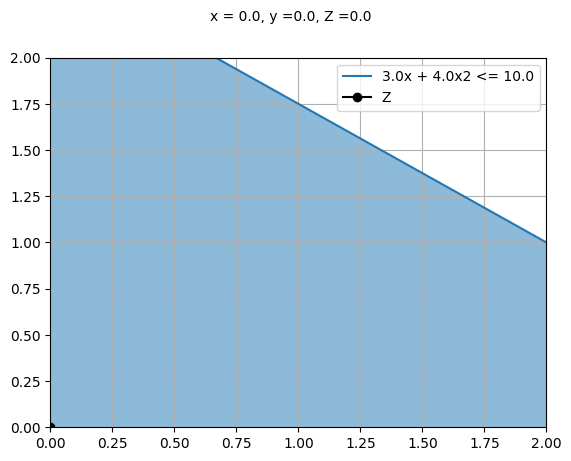
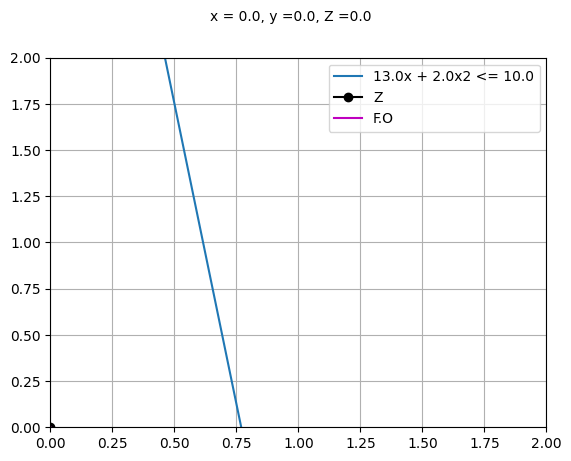
Back Terminado

diff --git a/src/Components/Graph.js b/src/Components/Graph.js
@@ -1,7 +1,6 @@
 import React,{useState} from 'react';
 import { Layout, Row, Col, Form , Radio,Button, Input, Space,Select, Image} from "antd";
 import { PlusCircleOutlined } from "@ant-design/icons";
-import axios from 'axios'
 import 'antd/dist/antd.css'
 import './Graph.css'
 
@@ -14,17 +13,14 @@ function Graph() {
   const [data, setData] = useState(null)
 
   const handleSubmit = async (data) =>{
-
-    // console.log(data)
-
-    try {
+        try {
       
       const response = await fetch('/api/data', {
         method: 'POST',
         headers: {
           'Content-Type': 'application/json'
         },
-        body: JSON.stringify(data)
+        body: JSON.stringify({data})
       })
   
       if (response.ok) {
@@ -38,9 +34,7 @@ function Graph() {
     } catch (error) {
       console.log(error)
     }
-
-    
-  }
+}
 
   return (
     <Layout className="fondo">

diff --git a/api/index.py b/api/index.py
@@ -1,8 +1,7 @@
-from flask import Flask,jsonify,request,json,url_for,send_file
+from flask import Flask,request,json,send_file
 import pulp 
 import numpy as np
 import matplotlib.pyplot as plt
-from io import BytesIO
 
 dir(pulp)
 
@@ -17,127 +16,140 @@ def index():
 
 @app.route('/api/data',methods=['POST'])
 def create():
-    # request_data = json.loads(request.data)
-    # print(request_data)
-    # maxmin = request_data['data']['maxmin']
-    # xObj = request_data['data']['xObj']
-    # yObj = request_data['data']['yObj']
-    # todas = request_data['data']['names']
+    request_data = json.loads(request.data)
+    print(request_data)
+    maxmin = request_data['data']['maxmin']
+    xObj = request_data['data']['xObj']
+    yObj = request_data['data']['yObj']
+    todas = request_data['data']['names']
 
-    # x = pulp.LpVariable('x', lowBound = 0)
-    # y = pulp.LpVariable('y', lowBound = 0)
+    x = pulp.LpVariable('x', lowBound = 0)
+    y = pulp.LpVariable('y', lowBound = 0)
 
-    # max_z = pulp.LpProblem("Maximaze_Z", pulp.LpMaximize)
-    # min_z = pulp.LpProblem("Minimize_Z", pulp.LpMinimize)
+    max_z = pulp.LpProblem("Maximaze_Z", pulp.LpMaximize)
+    min_z = pulp.LpProblem("Minimize_Z", pulp.LpMinimize)
 
-    # xmax = 0
-    # ymax = 0
+    xmax = 0
+    ymax = 0
 
-    # for j in range(len(todas)):
-    #     print(todas[j]['valorX'], todas[j]['valorY'],todas[j]['igualador'],todas[j]['resultado'])
+    for j in range(len(todas)):
+        print(todas[j]['valorX'], todas[j]['valorY'],todas[j]['igualador'],todas[j]['resultado'])
     
 
-    # if maxmin == "maximizar":
-    #     max_z += float(xObj)*x + float(yObj)*y
-    #     for t in range(len(todas)):
-    #         if todas[t]['igualador'] == ">=":
-    #             max_z += float(todas[t]['valorX'])*x + float(todas[t]['valorY'])*y >= float(todas[t]['resultado'])
-    #         else:
-    #             max_z += float(todas[t]['valorX'])*x + float(todas[t]['valorY'])*y <= float(todas[t]['resultado'])
-    #         # if xmax < float(todas[t]['valorX']):
-    #         #     xmax = float(todas[t]['valorX'])
-    #         # elif ymax < float(todas[t]['valorY']):
-    #         #     ymax = float(todas[t]['valor'])
-    #     # print(max_z)
-    #     max_z.solve()
-    #     print('El valor de x' + str(x.varValue))
-    #     print('El valor de y' + str(y.varValue))
+    if maxmin == "maximizar":
+        max_z += float(xObj)*x + float(yObj)*y
+        for t in range(len(todas)):
+            if todas[t]['igualador'] == ">=":
+                max_z += float(todas[t]['valorX'])*x + float(todas[t]['valorY'])*y >= float(todas[t]['resultado'])
+            else:
+                max_z += float(todas[t]['valorX'])*x + float(todas[t]['valorY'])*y <= float(todas[t]['resultado'])
+            # if xmax < float(todas[t]['valorX']):
+            #     xmax = float(todas[t]['valorX'])
+            # elif ymax < float(todas[t]['valorY']):
+            #     ymax = float(todas[t]['valor'])
+        # print(max_z)
+        max_z.solve()
+        print('El valor de x' + str(x.varValue))
+        print('El valor de y' + str(y.varValue))
         
-    # else:
-    #     min_z += float(xObj)*x + float(yObj)*y
-    #     for t in range(len(todas)):
-    #         if todas[t]['igualador'] == ">=":
-    #             min_z += float(todas[t]['valorX'])*x + float(todas[t]['valorY'])*y >= float(todas[t]['resultado'])
-    #         else:
-    #             min_z += float(todas[t]['valorX'])*x + float(todas[t]['valorY'])*y <= float(todas[t]['resultado'])
-    #         # if xmax < float(todas[t]['valorX']):
-    #         #     xmax = float(todas[t]['valorX'])
-    #         # elif ymax < float(todas[t]['valorY']):
-    #         #     ymax = float(todas[t]['valorY'])
-    #     # print(min_z)
-    #     print(min_z.solve())
-    #     print('El valor de x' + str(x.varValue))
-    #     print('El valor de y' + str(y.varValue))
+    else:
+        min_z += float(xObj)*x + float(yObj)*y
+        for t in range(len(todas)):
+            if todas[t]['igualador'] == ">=":
+                min_z += float(todas[t]['valorX'])*x + float(todas[t]['valorY'])*y >= float(todas[t]['resultado'])
+            else:
+                min_z += float(todas[t]['valorX'])*x + float(todas[t]['valorY'])*y <= float(todas[t]['resultado'])
+            # if xmax < float(todas[t]['valorX']):
+            #     xmax = float(todas[t]['valorX'])
+            # elif ymax < float(todas[t]['valorY']):
+            #     ymax = float(todas[t]['valorY'])
+        # print(min_z)
+        print(min_z.solve())
+        print('El valor de x' + str(x.varValue))
+        print('El valor de y' + str(y.varValue))
 
+    xmax = 2
+    ymax = 2
+    for t in range(len(todas)):
+        xactual = float(todas[t]['valorX'])
+        yactual = float(todas[t]['valorY'])
+        resul = float(todas[t]['resultado'])
+        if yactual != 0.0:
+            maxEnY = (resul / yactual) + ((xactual/yactual)*-1)
+            if maxEnY > ymax:
+                ymax = int(maxEnY) + 10
+        if xactual != 0.0:
+            maxEnX = (resul / xactual) + ((yactual/xactual)*-1)
+            if maxEnX > xmax:
+                xmax = int(maxEnX) + 10
 
-    # xmax = 2
-    # ymax = 2
-    # for t in range(len(todas)):
-    #     xactual = float(todas[t]['valorX'])
-    #     yactual = float(todas[t]['valorY'])
-    #     resul = float(todas[t]['resultado'])
-    #     if yactual != 0.0:
-    #         maxEnY = (resul / yactual) + ((xactual/yactual)*-1)
-    #         if maxEnY > ymax:
-    #             ymax = int(maxEnY) + 10
-    #     if xactual != 0.0:
-    #         maxEnX = (resul / xactual) + ((yactual/xactual)*-1)
-    #         if maxEnX > xmax:
-    #             xmax = int(maxEnX) + 10
-
-    # xfun = np.linspace(0,xmax + 10, 2000)
-    # yval = []
-    # pos = 0
-    # for t in range(len(todas)):
-    #     x1 = float(todas[t]['valorX']) * -1
-    #     x2 = float(todas[t]['valorY'])
-    #     resul = float(todas[t]['resultado'])
-    #     if x2 != 0:
-    #         resultado = (resul / x2) + ((x1 / x2)*xfun)
+    xfun = np.linspace(0,xmax + 10, 2000)
+    yval = []
+    pos = 0
+    for t in range(len(todas)):
+        x1 = float(todas[t]['valorX']) * -1
+        x2 = float(todas[t]['valorY'])
+        resul = float(todas[t]['resultado'])
+        if x2 != 0:
+            resultado = (resul / x2) + ((x1 / x2)*xfun)
         
-    #         yval.append(resultado)
-    #         plt.plot(xfun, resultado, label = f"{str(x1 * -1)}x + {str(x2)}x2 {todas[t]['igualador']} {str(resul)}")
-    #         if todas[t]['igualador'] == "<=":
-    #             plt.fill_between(xfun, resultado, where = resultado <= resultado, alpha=0.5)
-    #         elif todas[t]['igualador'] == ">=":
-    #             plt.fill_between(xfun, resultado, where = resultado >= resultado, alpha=0.5)
-    #     else:
-    #         pos = 0 
-    #         op = np.arange(2000) * 0
-    #         resultado = resul / (x1 * -1)
-    #         for b in range(len(xfun)):
-    #             if resultado == xfun[b]:
-    #                 op[b] = ymax + 10
-    #                 pos = b
-    #                 break
-    #             if xfun[b] > resultado and b != 0:
-    #                 op[b-1] = ymax + 10
-    #                 pos = b - 1
-    #                 break
+            yval.append(resultado)
+            plt.plot(xfun, resultado, label = f"{str(x1 * -1)}x + {str(x2)}x2 {todas[t]['igualador']} {str(resul)}")
+            if todas[t]['igualador'] == "<=":
+                #plt.fill_between(xfun, resultado, where = resultado <= resultado, alpha=0.5)
+                print('Uno')
+            elif todas[t]['igualador'] == ">=":
+                #plt.fill_between(xfun, resultado, where = resultado >= resultado, alpha=0.5)
+                print('Dos')
+        else:
+            pos = 0 
+            op = np.arange(2000) * 0
+            resultado = resul / (x1 * -1)
+            for b in range(len(xfun)):
+                if resultado == xfun[b]:
+                    op[b] = ymax + 10
+                    pos = b
+                    break
+                if xfun[b] > resultado and b != 0:
+                    op[b-1] = ymax + 10
+                    pos = b - 1
+                    break
 
-    #         for c in range(len(op)):
-    #             if todas[t]['igualador'] == "<=":
-    #                 if c >= pos:
-    #                     op[c] = ymax + 10
-    #                 elif todas[t]['igualador'] == ">=":
-    #                     if c <= pos:
-    #                         op[c] = xmax + 10
+            for c in range(len(op)):
+                if todas[t]['igualador'] == "<=":
+                    if c >= pos:
+                        op[c] = ymax + 10
+                    elif todas[t]['igualador'] == ">=":
+                        if c <= pos:
+                            op[c] = xmax + 10
             
-    #         yval.append(op)
-    #         plt.plot(xfun, op, label = f"{str(x1 * -1)}x + {str(x2)}x2 {todas[t]['igualador']} {str(resul)}")
-    #         if todas[t]['igualador'] == "<=":
-    #             plt.fill_between(xfun, op, where = op <= op , alpha = 0.5)
-    #         elif todas[t]['igualador'] == ">=":
-    #             plt.fill_between(xfun, op, where = op >= op , alpha = 0.5)
-    # plt.plot(x.varValue, y.varValue, marker = "o", color = "k", label = 'Z')
-    # plt.ylim(0, ymax)
-    # plt.xlim(0, xmax)
-    # plt.suptitle('x = '+str(x.varValue)+', y ='+str(y.varValue)+', Z ='+str(pulp.value(min_z.objective)), fontsize=10)
-    
-    # plt.legend()
-    # plt.grid(True)
-    # plt.plot()
-    # plt.savefig('Ejemplo.png', bbox_inches='tight')
+            yval.append(op)
+            plt.plot(xfun, op, label = f"{str(x1 * -1)}x + {str(x2)}x2 {todas[t]['igualador']} {str(resul)}")
+            if todas[t]['igualador'] == "<=":
+                #plt.fill_between(xfun, op, where = op <= op , alpha = 0.5)
+                print('Tres')
+            elif todas[t]['igualador'] == ">=":
+                #plt.fill_between(xfun, op, where = op >= op , alpha = 0.5)
+                print('Cuatro')
+    plt.plot(x.varValue, y.varValue, marker = "o", color = "k", label = 'Z')
+    plt.ylim(0, ymax)
+    plt.xlim(0, xmax)
+   
+    if maxmin =="minimizar":
+        plt.suptitle('x = '+str(x.varValue)+', y ='+str(y.varValue)+', Z ='+str(pulp.value(min_z.objective)), fontsize=10)
+        # axline((pulp.value(min_z.objective)/float(xObj), 0), (0, pulp.value(min_z.objective)/float(yObj)), color='purple')
+        plt.plot(xfun,pulp.value(min_z.objective)-float(xObj)*xfun/float(yObj),color='m',label='F.O')
+    else:
+        plt.suptitle('x = '+str(x.varValue)+', y ='+str(y.varValue)+', Z ='+str(pulp.value(max_z.objective)), fontsize=10)
+        # axline((pulp.value(max_z.objective)/float(xObj), 0), (0, pulp.value(max_z.objective)/float(yObj)), color='purple')
+        plt.plot(xfun,pulp.value(max_z.objective)-float(xObj)*xfun/float(yObj),color='m',label='F.O')
+   
+#    plt.plot(X,pulp.value(max_z.objective)-float(xObj)*x/float(yObj),color='m',label='F.O')
+
+    plt.legend()
+    plt.grid(True)
+    plt.plot()
+    plt.savefig('Ejemplo.png', bbox_inches='tight')
     return send_file('Ejemplo.png',mimetype='image/png')
     
     
